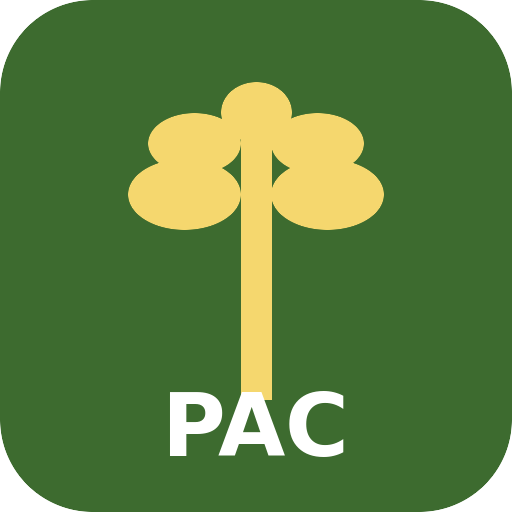
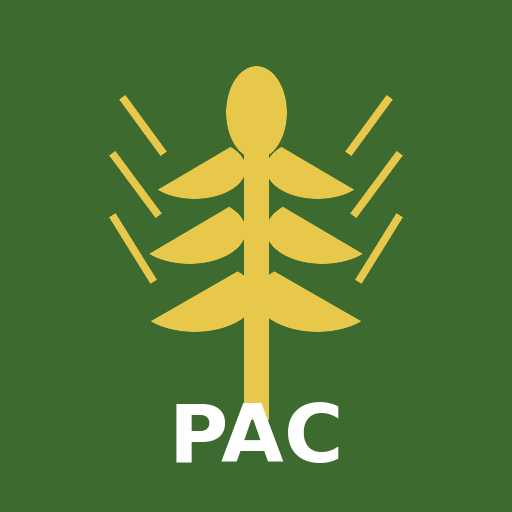
Add files via upload

diff --git a/index.html b/index.html
@@ -8,8 +8,8 @@
 <meta http-equiv="Cache-Control" content="no-cache, no-store, must-revalidate">
 <meta http-equiv="Pragma" content="no-cache">
 <meta http-equiv="Expires" content="0">
-<link rel="icon" type="image/png" sizes="192x192" href="https://raw.githubusercontent.com/jaimepolilla/GESTIONPAC/main/icon-192.png">
-<link rel="apple-touch-icon" sizes="192x192" href="https://raw.githubusercontent.com/jaimepolilla/GESTIONPAC/main/icon-192.png">
[3 lines of base64/hex data omitted]
 <title>PAC Gestion</title>
 <script src="https://cdnjs.cloudflare.com/ajax/libs/xlsx/0.18.5/xlsx.full.min.js"></script>